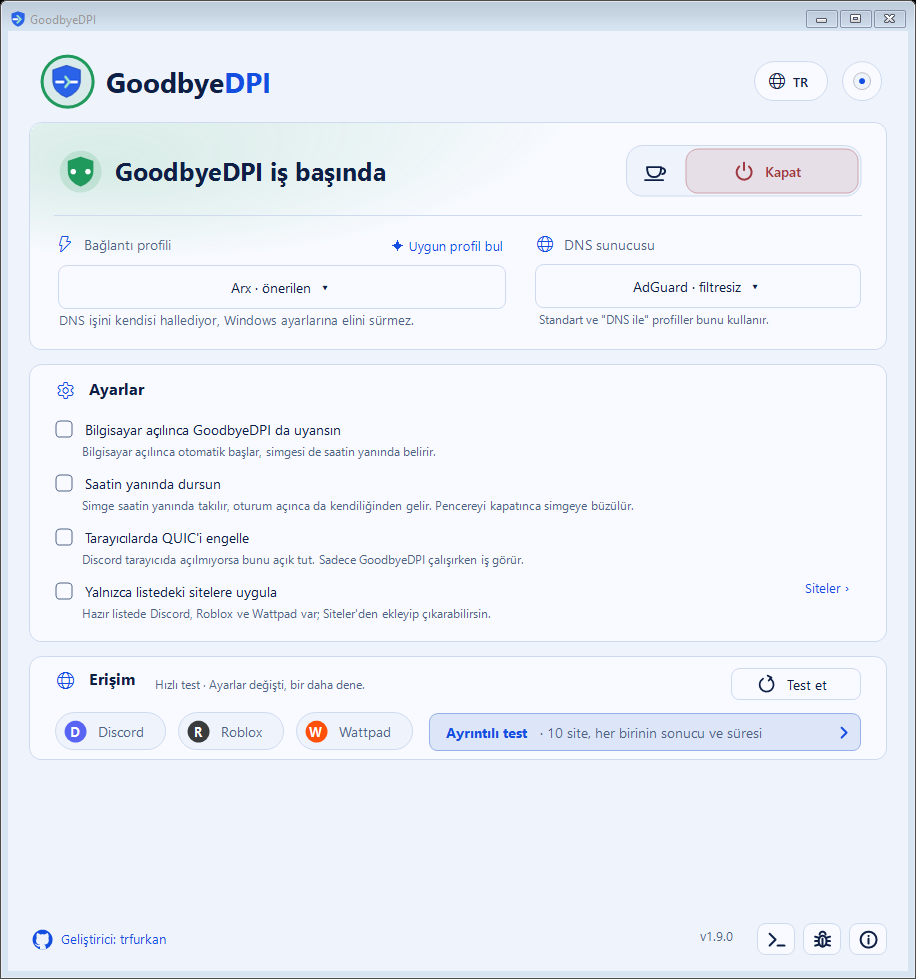
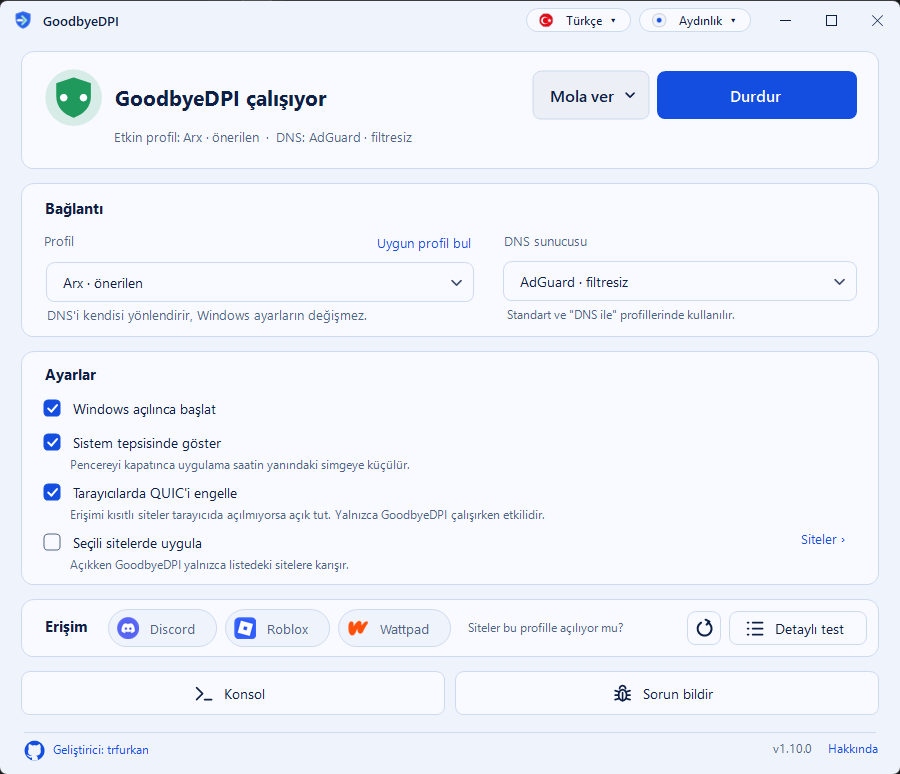
Sürüm 1.10.0
- Sürüm numarası 1.10.0, sürüm notu docs/RELEASE-v1.10.0.md.
- Depodaki ekran görüntüleri (TR/EN/RU ana pencere, erişim, menüler,
  tema galerisi) yeni arayüzle yeniden üretildi.
- scripts/preview-site.ps1 yeni düzene uyarlandı: pencere kendi doğal
  boyutunda ve ekrandan, yalnızca iç alanıyla çekiliyor (uygulamanın kendi
  başlık çubuğu görünüyor); menüler başlık düğmelerinden açılıyor; her dil
  ayrı işlemde üretiliyor, böylece profil adları da çevriliyor.

diff --git a/src/AppInfo.cs b/src/AppInfo.cs
@@ -6,12 +6,12 @@ using System.Reflection;
 [assembly: AssemblyProduct("GoodbyeDPI Tray")]
 [assembly: AssemblyCompany("Furkan")]
 [assembly: AssemblyCopyright("Geliştirici: Furkan. Üçüncü taraf bileşenlerin lisansları saklıdır.")]
-[assembly: AssemblyVersion("1.9.0.0")]
-[assembly: AssemblyFileVersion("1.9.0.0")]
-[assembly: AssemblyInformationalVersion("1.9.0")]
+[assembly: AssemblyVersion("1.10.0.0")]
+[assembly: AssemblyFileVersion("1.10.0.0")]
+[assembly: AssemblyInformationalVersion("1.10.0")]
 namespace GoodbyeTray {
  static class AppInfo {
-  internal const string Version="1.9.0", Developer="Furkan";
+  internal const string Version="1.10.0", Developer="Furkan";
   internal const string SourceUrl="https://github.com/cagritaskn/GoodbyeDPI-Turkey", DeveloperUrl="https://github.com/trfurkan";
   internal static string Purpose { get { return L.T("GoodbyeDPI'ı komut satırıyla uğraşmadan açıp kapatmak, profil değiştirmek ve Windows'la birlikte başlatmak için yapıldı."); } }
   internal static string Notice { get { return L.T("Uygulama tamamen deneyseldir ve herhangi bir garanti sunmaz. Her internet ağında çalışmayabilir veya bağlantınızı etkileyebilir. Uygulamayı kullanma kararı ve doğabilecek tüm sorumluluk kullanıcının kendisine aittir."); } }

diff --git a/src/MainForm.cs b/src/MainForm.cs
@@ -325,7 +325,7 @@ namespace GoodbyeTray {
    toggle.Accent=contrast?foreground:AppPalette.Accent; toggle.AccentInk=contrast?background:AppPalette.AccentInk;
    toggle.Retheme();
   }
-  // "v1.9.0 · güncel" in the footer; a new release turns it into the accent-colored download link.
+  // "v1.10.0 · güncel" in the footer; a new release turns it into the accent-colored download link.
   void ShowVersion() {
    string state=updateState==UpdateState.Current?L.T("güncel"):updateState==UpdateState.Available?L.T("yeni sürüm var"):null;
    versionLink.Text="v"+AppInfo.Version+(state==null?"":" · "+state);

diff --git a/docs/RELEASE-v1.10.0.md b/docs/RELEASE-v1.10.0.md
@@ -1,0 +1,14 @@
+**Yenilikler**
+
+- Baştan düzenlenen ana pencere: eski görünümün sadeliği, yeninin özellikleri. Durum, bağlantı, ayarlar ve erişim artık ayrı ve derli toplu kartlarda.
+- Başlık çubuğu uygulamanın kendisinin: dil (bayrağıyla) ve tema menüleri doğrudan başlıkta. Windows 11'de büyüt düğmesinin üzerinde bekleyince ekran yerleşim menüsü de açılıyor.
+- Durum kartında büyük kalkan işareti ve daha büyük düğmeler. "Mola ver" artık yazılı bir düğme; 5 ya da 15 dakika seçebilirsin.
+- Erişim tek satırda: Discord, Roblox ve Wattpad'i yenile düğmesiyle hemen test edebilirsin. Detaylı test de yeni görünümde, site ikonlarıyla.
+- Bütün menüler yenilendi: yuvarlak köşeler, seçili öğede onay işareti. Saatin yanındaki menü sadeleşti; yalnızca aç, başlat/durdur, mola ve çık kaldı.
+
+**Düzeltmeler**
+
+- Uygulama açılırken bir an görünen siyah boşluklar ve titreme giderildi; pencere doğru boyutta, tek seferde açılıyor.
+- Ekran ölçeği %125–%175 olan bilgisayarlarda kırpılan yazılar ve kaybolan alt bilgi düzeltildi.
+- Tepsiden açılan pencerenin bazı durumlarda görünmez kalabilmesi düzeltildi.
+- Kullanılmayan eski kodlar temizlendi, küçük hatalar giderildi.
